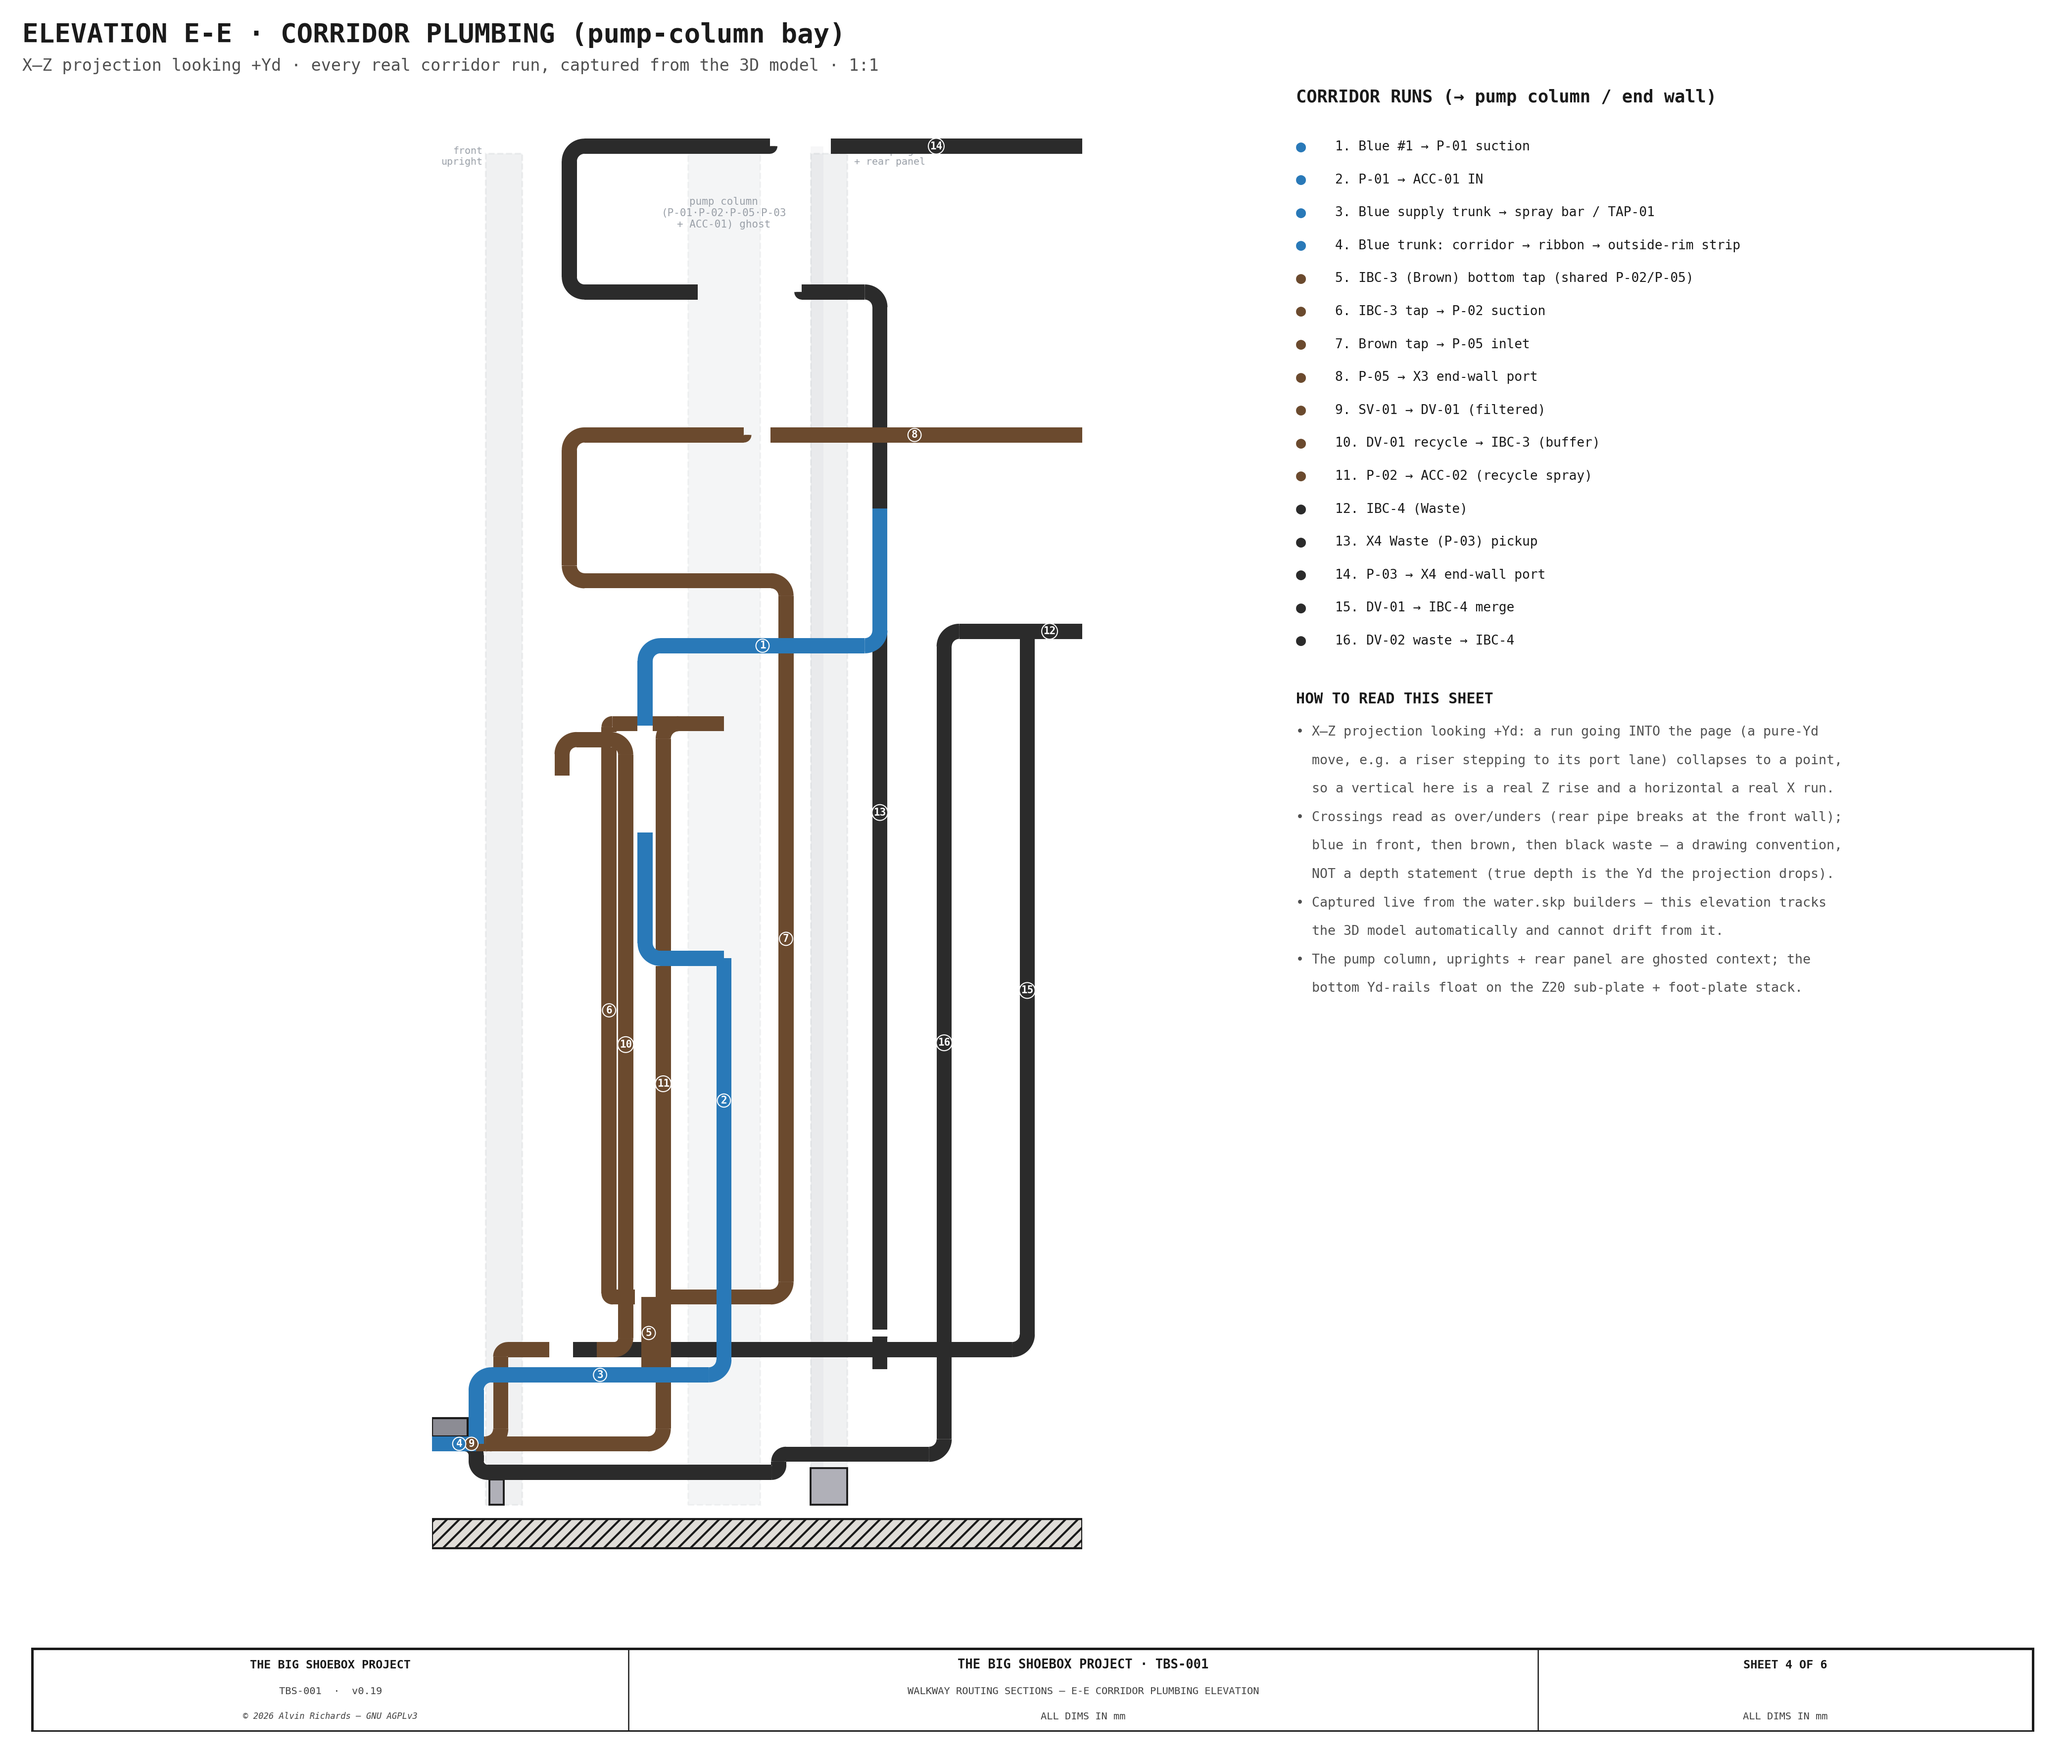
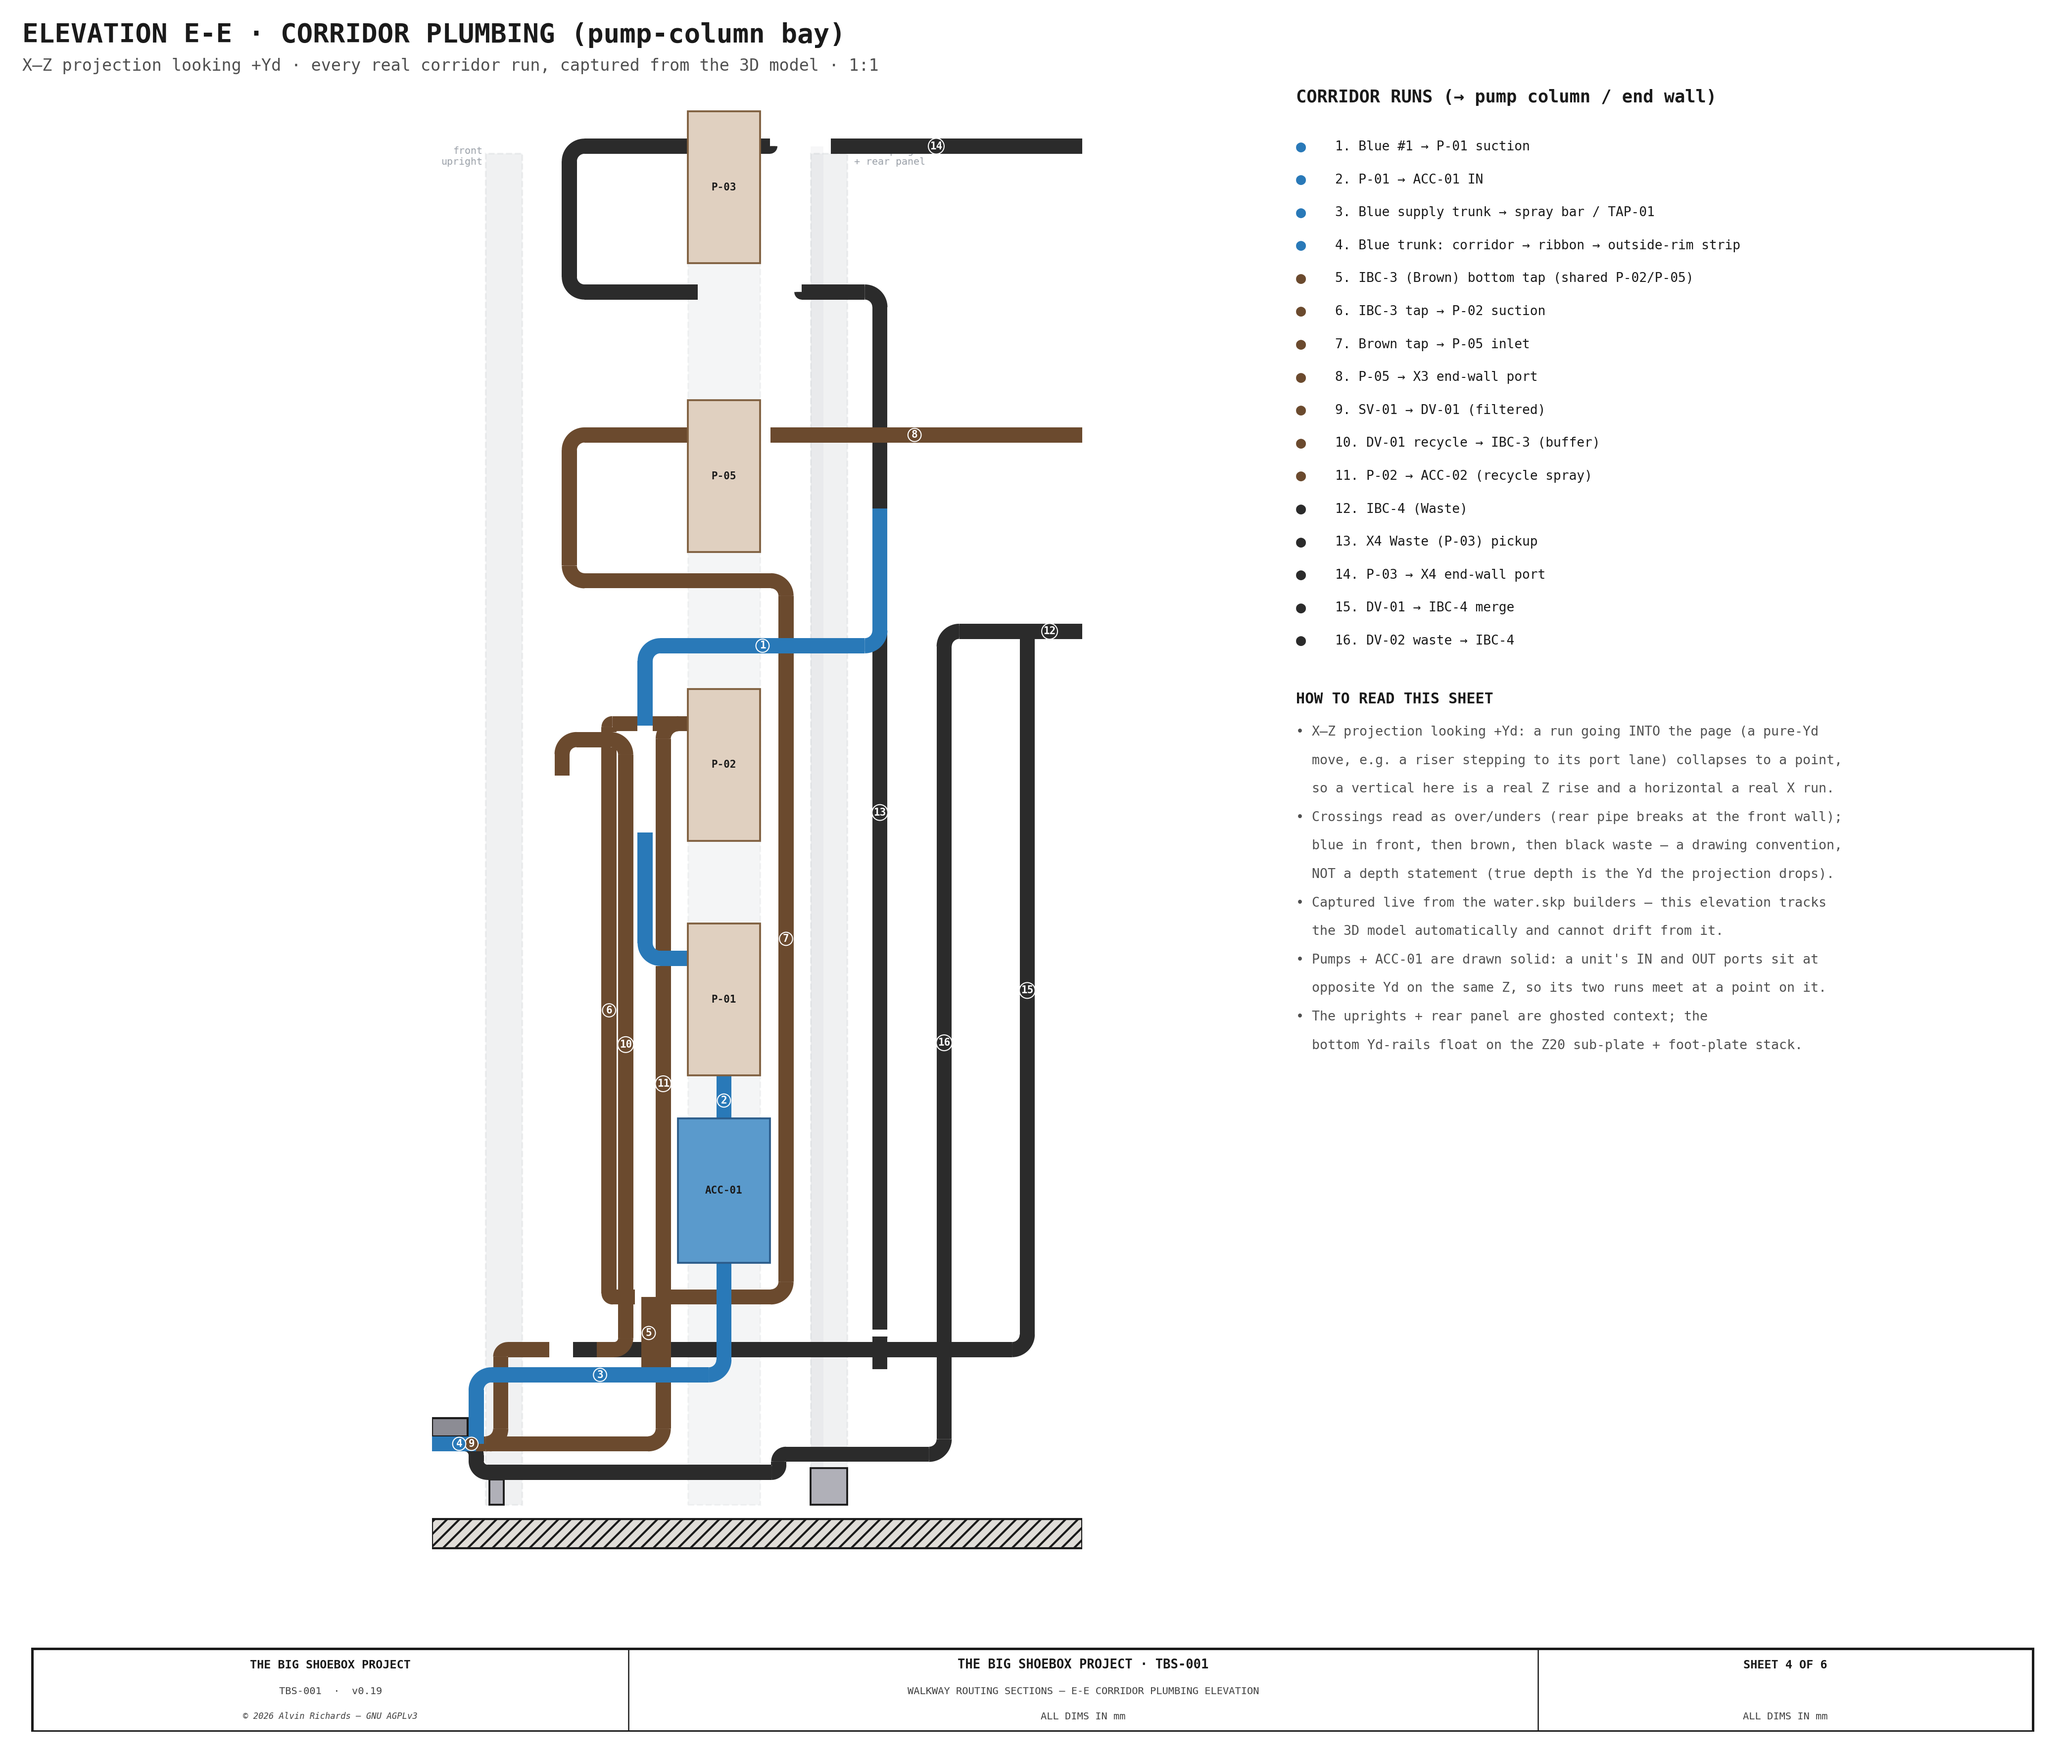
walkway E-E: draw P-01/P-02/P-05/P-03 + ACC-01 solid so each unit's IN/OUT runs (collapsed to one point by the +Yd projection) meet on the unit

diff --git a/src/generators/generate_walkway_sections.py b/src/generators/generate_walkway_sections.py
@@ -598,19 +598,26 @@ def sheet4():
     _FRW, _FRH = cp.ov.IBC_FRONT_RAIL_W, cp.ov.IBC_FRONT_RAIL_H
     _rect(ax, cp.FRONT_RAIL_CX - _FRW / 2, _BASE, _FRW, _FRH, C_STEEL, lw=0.9, z0=4)            # front bottom Yd-rail (top Z55)
     _rect(ax, cp.BACK_X, _BASE, _RHS, _RHS, C_STEEL, lw=0.9, z0=4)                              # back bottom Yd-rail (top Z70.8)
-    # frame uprights + rear panel + pump column, ghosted (just outside / behind the pipes)
+    # frame uprights + rear panel + pump-column envelope, ghosted (just outside / behind the pipes)
     for ux in (UP_X0, cp.BACK_X):
         _rect(ax, ux, _BASE, _RHS, Z_HI - 120 - _BASE, C_GHOST, ec=C_GHOST, lw=0.8, z0=1, alpha=0.14, ls="--")
     _ghost_top = Z_HI - 110
     _rect(ax, cp.BACK_X, _BASE, 18, _ghost_top - _BASE, C_GHOST, ec="none", z0=1, alpha=0.08)   # rear panel ply
     _rect(ax, 4934, _BASE, 100, _ghost_top - _BASE, C_GHOST, ec=C_GHOST, lw=0.8, z0=1, alpha=0.10, ls="--")  # pump column (P-01/02/05/03 + ACC)
-    ax.text(4984, _ghost_top - 70, "pump column\n(P-01·P-02·P-05·P-03\n+ ACC-01) ghost", fontsize=5.0,
-            ha="center", va="top", color=C_GHOST, zorder=2, **FONT)
     ax.text(UP_X0 - 4, _ghost_top, "front\nupright", fontsize=4.8, ha="right", va="top", color=C_GHOST, **FONT)
     ax.text(cp.BACK_X + 60, _ghost_top, "back upright\n+ rear panel", fontsize=4.8, ha="left", va="top", color=C_GHOST, **FONT)
 
     # ── the REAL corridor pipe routing, projected from the 3D (captured live) ──
     _draw_lanes(ax, [(xz, _CORRIDOR_COL.get(col, C_DIM)) for _nm, xz, col in runs])
+    # pumps + ACC-01 drawn solid: each one's IN/OUT ports sit at opposite Yd on the same Z, so in this
+    # projection the suction and discharge runs meet at a point that only reads as the unit
+    for key, zb in cp.PSTACK.items():
+        _rect(ax, cp.PXC - cp.PVB_R, zb, 2 * cp.PVB_R, cp.PVB_H + cp.PCAP_H, "#E0D0C0", ec="#806040", lw=0.9, z0=50)
+        ax.text(cp.PXC, zb + (cp.PVB_H + cp.PCAP_H) / 2, {"P-04": "P-02"}.get(key, key),
+                fontsize=5.0, ha="center", va="center", color=C_OUT, fontweight="bold", zorder=51, **FONT)
+    _rect(ax, cp.PXC - cp.ACC_R, cp.ACC_Z0, 2 * cp.ACC_R, 200, "#5A9ACC", ec="#2C5C8A", lw=0.9, z0=50)
+    ax.text(cp.PXC, cp.ACC_Z0 + 100, "ACC-01", fontsize=5.0, ha="center", va="center", color=C_OUT,
+            fontweight="bold", zorder=51, **FONT)
 
     # number runs in LEGEND order (blue → brown → gray) so both the tags and the legend read 1..N
     order = {C_BLUE: 0, C_BROWN: 1, C_WASTE: 2}
@@ -662,7 +669,9 @@ def sheet4():
         "  NOT a depth statement (true depth is the Yd the projection drops).",
         "• Captured live from the water.skp builders — this elevation tracks",
         "  the 3D model automatically and cannot drift from it.",
-        "• The pump column, uprights + rear panel are ghosted context; the",
+        "• Pumps + ACC-01 are drawn solid: a unit's IN and OUT ports sit at",
+        "  opposite Yd on the same Z, so its two runs meet at a point on it.",
+        "• The uprights + rear panel are ghosted context; the",
         "  bottom Yd-rails float on the Z20 sub-plate + foot-plate stack.",
     ]:
         bold = not line.startswith(("•", " "))

diff --git a/RELEASE.md b/RELEASE.md
@@ -26,7 +26,7 @@ is no separate publish step to run afterward.
 
 ## [Unreleased]
 
-- **2D water sheets brought back to the 3D.** ibc-stacking Sheet 5 drew the retired routing (filter return into IBC-2); it now shows DV-01 recycle → IBC-3 on a pH pass and the waste merge into IBC-4 through CV-2/CV-3, with the legend and notes rewritten. Sheet 4 no longer lists P-04 as a corridor pump. water-system Sheet 1 labels the 1" equalization tie and shows its flex jumpers. On the pinhole-wall elevation, P-04's ports are drawn to the datasheet reach and its suction enters at port height. The SV-02 marker now sits on its pipe: `PWP_SV02_Z` was the valve's base while both sheets read it as the center, so it is now the true center and the 3D derives the base from it (same geometry). The bridge-arc crossing is replaced by the skill's flush break. Labels are at the 4.0 legibility floor and moved off the pipes they named. The 3D F1 label read "50um"; it is a 5-micron cartridge. Walkway E-E listed IBC-3 → P-02 three times because its capture saw runs the builder constructs and then drops; it now keeps only runs that reach the model. Its tags no longer hide under the pipes. The four panel sheets (corridor front elevation, spine views A/B, pinhole panel) now take their routes, valve centers, clips and flex jumpers from an in-process build of water.skp, so they can't drift from the model. The spine views drop the retired DV-01 Blue-recycle riser, show X1 as a tee, and add CV-2/CV-3. The pinhole panel draws the extended board's low runs, clips and corner notches. Electrical Sheet 4's pump boxes use the datasheet envelope. Two 3D fixes came out of the 2D pass: the X4 waste pickup had a diagonal leg (an 18.5mm Yd jog spread across a 1.4m rise), now squared onto the spine lane; and the ACC-02 → BV-05 hop over the P-04 suction riser is derived from the riser's X (the port change had moved the riser into it). `check_pipe_supports` now also fails any non-axis-aligned pipe leg (the spray-bar feed hoses and one battery cable are ratcheted as legitimate diagonals). Review fixes: ACC-01 and ACC-02 draw their IN/OUT port stubs so every run lands on a port, P-01 → ACC-01 IN gets its 90° elbow, and the TAP-01 riser elbows into its spout; its isolation valve is labeled BV-04 (BV-06 is the P-03 suction valve) on the elevation and in chemistry-prep-shelves.md.
+- **2D water sheets brought back to the 3D.** ibc-stacking Sheet 5 drew the retired routing (filter return into IBC-2); it now shows DV-01 recycle → IBC-3 on a pH pass and the waste merge into IBC-4 through CV-2/CV-3, with the legend and notes rewritten. Sheet 4 no longer lists P-04 as a corridor pump. water-system Sheet 1 labels the 1" equalization tie and shows its flex jumpers. On the pinhole-wall elevation, P-04's ports are drawn to the datasheet reach and its suction enters at port height. The SV-02 marker now sits on its pipe: `PWP_SV02_Z` was the valve's base while both sheets read it as the center, so it is now the true center and the 3D derives the base from it (same geometry). The bridge-arc crossing is replaced by the skill's flush break. Labels are at the 4.0 legibility floor and moved off the pipes they named. The 3D F1 label read "50um"; it is a 5-micron cartridge. Walkway E-E listed IBC-3 → P-02 three times because its capture saw runs the builder constructs and then drops; it now keeps only runs that reach the model. Its tags no longer hide under the pipes. The four panel sheets (corridor front elevation, spine views A/B, pinhole panel) now take their routes, valve centers, clips and flex jumpers from an in-process build of water.skp, so they can't drift from the model. The spine views drop the retired DV-01 Blue-recycle riser, show X1 as a tee, and add CV-2/CV-3. The pinhole panel draws the extended board's low runs, clips and corner notches. Electrical Sheet 4's pump boxes use the datasheet envelope. Two 3D fixes came out of the 2D pass: the X4 waste pickup had a diagonal leg (an 18.5mm Yd jog spread across a 1.4m rise), now squared onto the spine lane; and the ACC-02 → BV-05 hop over the P-04 suction riser is derived from the riser's X (the port change had moved the riser into it). `check_pipe_supports` now also fails any non-axis-aligned pipe leg (the spray-bar feed hoses and one battery cable are ratcheted as legitimate diagonals). Review fixes: ACC-01 and ACC-02 draw their IN/OUT port stubs so every run lands on a port, P-01 → ACC-01 IN gets its 90° elbow, and the TAP-01 riser elbows into its spout; its isolation valve is labeled BV-04 (BV-06 is the P-03 suction valve) on the elevation and in chemistry-prep-shelves.md. Walkway E-E draws the four pumps and ACC-01 solid, so a unit's suction and discharge runs (opposite-Yd ports on one Z, collapsed by the projection) read as meeting on the unit rather than at a missing elbow.
 - **Pipe elbows show both joint lines; pump ports drawn to the datasheet; flex jumpers on the Blue equalization tie.** Every swept elbow was built along an inscribed 8-chord arc, so its far end face sat square to the last chord, not to the next pipe. That end ring was tilted ~5.6°, half of it buried in the adjoining pipe, and the joint line vanished at most elbow exits. Elbows now sweep the circumscribed polygon (tangent at both ends), so both rings sit square; this lives in the shared drawing helper, so every model with elbows picks it up on its next re-send. The corridor and skid pumps' port stubs now match the [Shurflo 2088-554-144 spec sheet](https://assets.freshwatersystems.com/images/skvxfhchi3wsmu9p29is/2088-554-144.pdf) (1/2"-14 NPSM male, 127mm across the port tips = `PUMP_YD_SPAN`): 13.5mm stubs, was 30mm. A ½" FNPT×slip adapter leg carries each run to its turn elbow, so the side-board riser planes are unchanged. The 1" IBC-1↔IBC-2 equalization tie was the only rigid tote-to-tote run; it now lands on each tote through a 1" flex jumper like every other tote connection (barbs M+F 8→10, SS clamps 2→3 10-packs; water +$28). The skid's tray-sump suction clip moved from just off the ply edge (X2760) onto the panel (X2830).
 - **Pump ports: elbow on the port, flex jumper after the turn; pinhole skid ply extended to the floor plates; every ply crossing gets its hole.** Each corridor pump run now turns one elbow radius out of its port, and the braided flex jumper moved onto the first straight leg after that turn (`port_jumper()`). That let the side-board risers move out to the pump-column limit, 5.5mm (near) / 4.5mm (far) on a ply block, and took the suction runs out of the near board (they had been drawn 3.5mm inside it). The pinhole-wall skid panel now extends down to the near-walkway cantilever wall-plate tops (Z200; 1,795×2,160, still two 4×8 sheets) with two corner notches for the right-rail end flange and saddle plate. The low runs (tray-sump suction, the three corridor drops) now clip to the ply under one rule (`wall_clip()`), leaving only the runs left of the panel on the bare wall; ACC-02 keeps its Z920 base. The support/connection GATE gained a ply-penetration check (a pipe may cross ply only along its thin axis, through a hole at least its size). It found the missing spine holes (X1 fill → IBC-2, the IBC-4 waste entry, and the 1" Blue equalization tie through a ½" hole), a rear-panel hole for P-03 → X4, and two Cct C bus holes through the shirt and rear panel. Hole lists are now module constants, so the cut sheet counts them, and the cut sheet lists the notches and the pipe-clip standoff blocks (from offcuts).
 - **Pump connections restored; new lint gate for pipe support + connection.** Shimming the corridor side-board risers out 18mm pushed them into the pump ports, collapsing the port→riser legs to ~8mm, so the pipes stopped meeting the pumps. The board faces are 234mm apart, and the pump plus its ports (160mm) leaves no room for an 18mm block plus a full elbow on each side. Those risers are back at 2.5mm as a logged exception. The new GATE *water pipes supported + connected* (`src/models/check_pipe_supports.py`) builds the water model and fails on (a) any P-clip whose strap is not on a pipe and (b) any NEW elbow whose leg is too short for it (ratchet on `pipe_elbow_allowlist.txt`, 48 pre-existing short legs). It caught and fixed: the two ACC-02 clips sitting in the port jog (moved onto the run), a far-board clip above the end of the P-01 → ACC-01 riser, and an F3 → SV-01 elbow. Also: DV-02 now has a ply mounting block, and the black P-03 → X4 line moved onto the Brown P-05 → X3 lane offset (10.5mm, blocked) pending the spine review.
